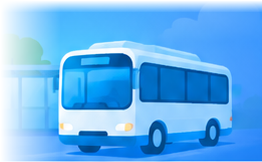
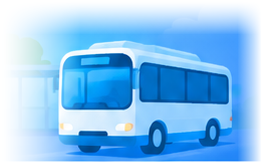
[화면] 버스·지하철 그림 가장자리 부드럽게 · 흰 판 겹침 방식 바꿈
Claude-Session: https://claude.ai/code/session_01PufqCx2JXd3mbUGipzDj6M

diff --git a/lib/features/bus/feature.dart b/lib/features/bus/feature.dart
@@ -157,7 +157,7 @@ class _HomeCardState extends State<_HomeCard> {
           decoration: BoxDecoration(color: Colors.white, borderRadius: BorderRadius.circular(20), boxShadow: [BoxShadow(color: const Color(0xFF0A74F4).withValues(alpha: 0.16), blurRadius: 16)]),
           child: ClipRRect(
             borderRadius: BorderRadius.circular(20),
-            child: Column(crossAxisAlignment: CrossAxisAlignment.stretch, children: [
+            child: Stack(children: [
               Container(
                 height: 84,
                 decoration: const BoxDecoration(gradient: LinearGradient(colors: [Color(0xFF0A6CF0), Color(0xFF2A8CFB)])),
@@ -204,8 +204,8 @@ class _HomeCardState extends State<_HomeCard> {
                   ),
                 ]),
               ),
-              Transform.translate(
-                offset: const Offset(0, -12),
+              Padding(
+                padding: const EdgeInsets.only(top: 72),
                 child: Container(
                   decoration: const BoxDecoration(color: Colors.white, borderRadius: BorderRadius.vertical(top: Radius.circular(18))),
                   padding: const EdgeInsets.fromLTRB(14, 8, 14, 0),

diff --git a/lib/features/subway/feature.dart b/lib/features/subway/feature.dart
@@ -94,7 +94,7 @@ class _HomeCardState extends State<_HomeCard> {
           decoration: BoxDecoration(color: Colors.white, borderRadius: BorderRadius.circular(20), boxShadow: [BoxShadow(color: const Color(0xFF6A5AE0).withValues(alpha: 0.16), blurRadius: 16)]),
           child: ClipRRect(
             borderRadius: BorderRadius.circular(20),
-            child: Column(crossAxisAlignment: CrossAxisAlignment.stretch, children: [
+            child: Stack(children: [
               Container(
                 height: 84,
                 decoration: const BoxDecoration(gradient: LinearGradient(colors: [Color(0xFF7E6BE7), Color(0xFF8571EE)])),
@@ -141,8 +141,8 @@ class _HomeCardState extends State<_HomeCard> {
                   ),
                 ]),
               ),
-              Transform.translate(
-                offset: const Offset(0, -12),
+              Padding(
+                padding: const EdgeInsets.only(top: 72),
                 child: Container(
                   decoration: const BoxDecoration(color: Colors.white, borderRadius: BorderRadius.vertical(top: Radius.circular(18))),
                   padding: const EdgeInsets.fromLTRB(14, 12, 14, 0),
